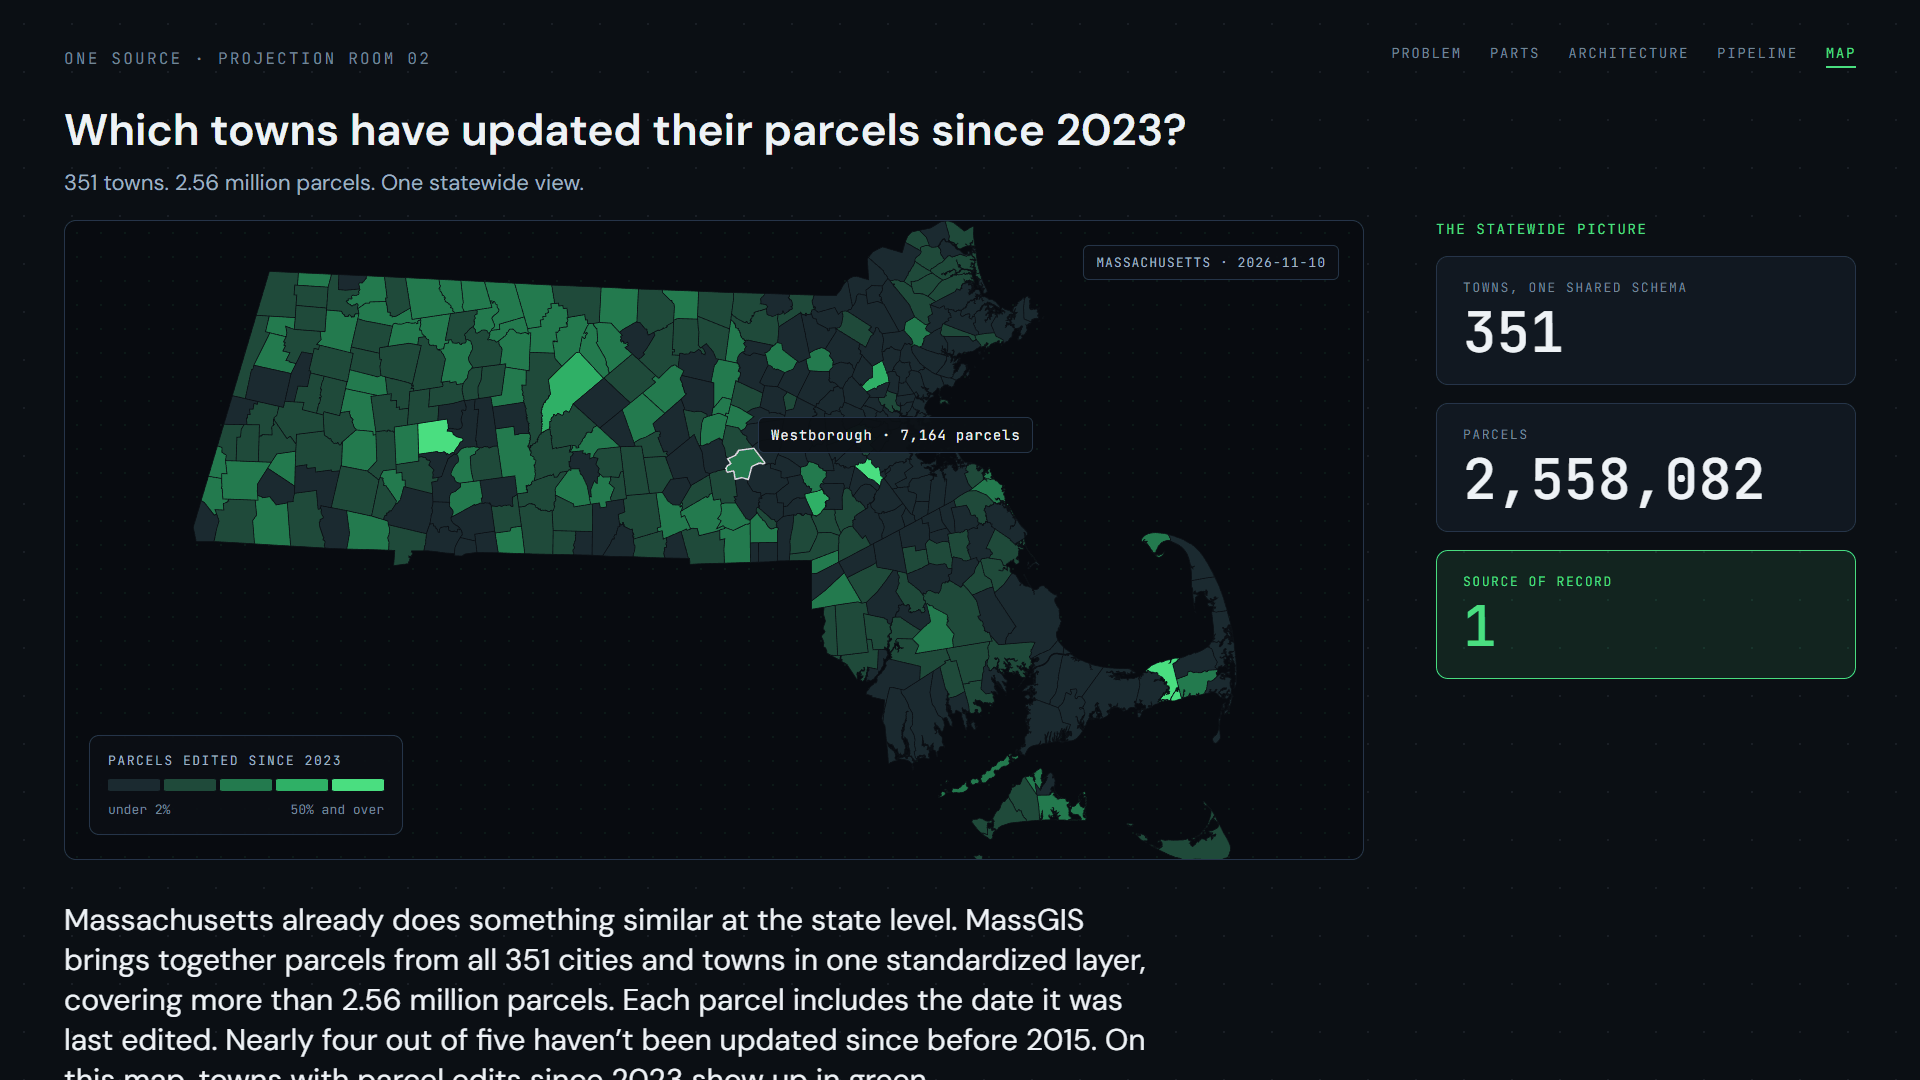
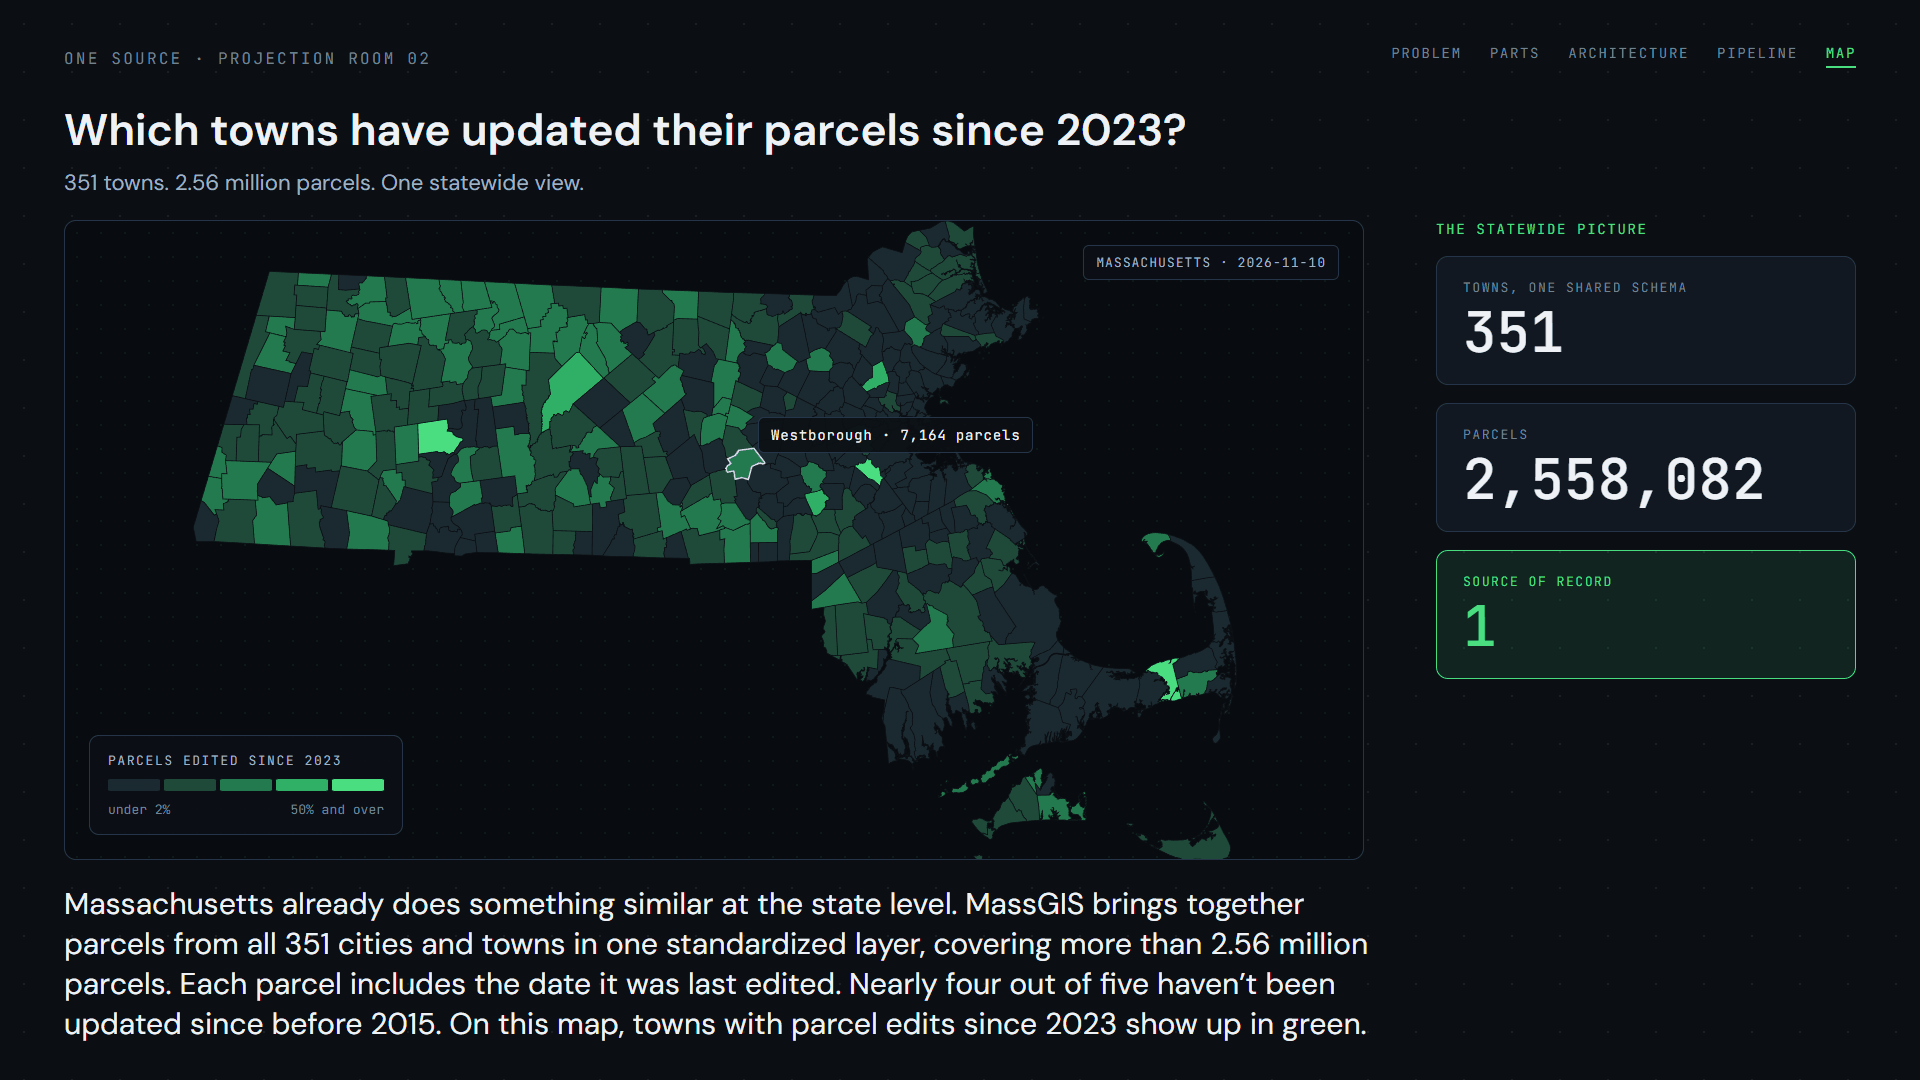
Publish the built site from a separate clone; drop the Pages build workflow

Changed region(s): [[0.0312, 0.825, 0.7188, 1.0]]

diff --git a/publish/README.md b/publish/README.md
@@ -1,0 +1,11 @@
+# The Projection Room
+
+Short videos by [Jacob Hogue](https://jacob-hogue.github.io) on maps, data visualization, spatial analysis and solution architecture. Each one comes with a written piece on what it shows and how it was built.
+
+**Watch at [jacob-hogue.github.io/projection-room](https://jacob-hogue.github.io/projection-room/).**
+
+## Pieces
+
+| No. | Title |
+|---|---|
+| 01 | [The dial-pulse map](https://jacob-hogue.github.io/projection-room/dial-pulse/) |
